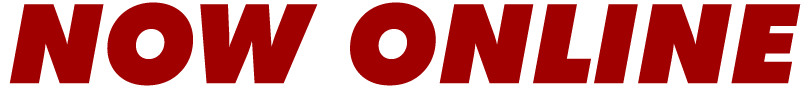
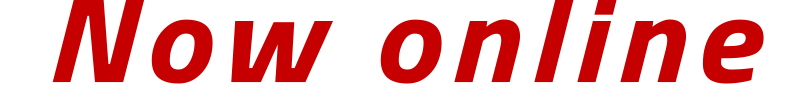
changes per Ron

diff --git a/animateDev.js b/animateDev.js
@@ -25,6 +25,9 @@ function drawBackground()
 			animationElements[element].context.drawImage(animationElements[element].image,0,0);
 		};
 	};
+
+	drawTitle();
+
 };
 
 function animate() 
@@ -37,11 +40,6 @@ function animate()
 	if (counter > 300 && (swingTop.isStillOnPage || swingBottom.isStillOnPage)) 
 	{
 		updateSwing();
-	};
-
-	if (swingTop.hasReachedBreakPoint)
-	{
-		drawTitle();
 	};
 
 	counter++;
@@ -119,5 +117,5 @@ function updateSwing()
 
 function drawTitle() 
 {
-	title.context.drawImage(title.image,100,80,248,90);
+	title.context.drawImage(title.image,65,100,350,127);
 };
